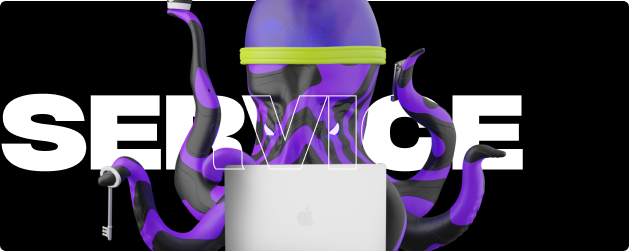
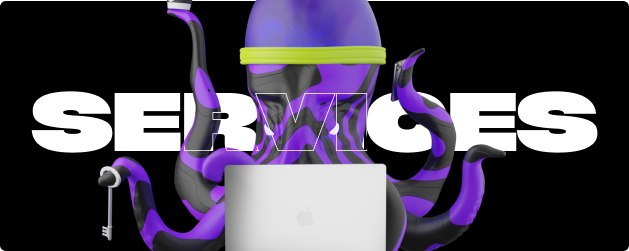
parallax + calendly window + main fix

Changed region(s): [[0.0, 0.3625, 0.9666, 0.6972], [0.3323, 0.6693, 0.3927, 0.6972], [0.6343, 0.4462, 0.6645, 0.4741]]

diff --git a/src/app/services/page.tsx b/src/app/services/page.tsx
@@ -32,18 +32,76 @@ const serviceBlockData: ServiceBlockDataType[] = [
     { key: 'pr', variant: 'lime', serviceName: "Influence Marketing & PR", className: 'sm:col-span-7 lg:col-span-4', hoveredText: 'black', hoveredArrow: "#bdff00" },
 ]
 
+const tiltProps = [
+    {
+        perspective: 1000,
+        gyroscope: true,
+        tiltMaxAngleX: 15,
+        tiltMaxAngleY: 15,
+        trackOnWindow: true,
+        imageSrc: '/particle1.png',
+    },
+    {
+        perspective: 1500,
+        gyroscope: true,
+        tiltMaxAngleX: 25,
+        tiltMaxAngleY: 25,
+        trackOnWindow: true,
+        imageSrc: '/particle2.png',
+    },
+    {
+        perspective: 3000,
+        gyroscope: true,
+        tiltMaxAngleX: 35,
+        tiltMaxAngleY: 35,
+        trackOnWindow: true,
+        imageSrc: '/particle3.png',
+    },
+    {
+        perspective: 1000,
+        gyroscope: true,
+        tiltMaxAngleX: 30,
+        tiltMaxAngleY: 15,
+        trackOnWindow: true,
+        imageSrc: '/particle4.png',
+    },
+    {
+        perspective: 4500,
+        gyroscope: true,
+        tiltMaxAngleX: 35,
+        tiltMaxAngleY: 35,
+        trackOnWindow: true,
+        imageSrc: '/particle5.png',
+    },
+];
+
 export default function Services() {
     return (
         <main className='w-full bg-[#f5f5f4]'>
-            <div className="w-full bg-my-bg rounded-b-3xl">
+            <div className="w-full bg-my-bg rounded-b-3xl relative overflow-hidden">
+
+
+                {tiltProps.map((props) => (
+                    <Tilt
+                        tiltReverse={true}
+                        className="parallax-effect"
+                        {...props}>
+                        <div className="flex items-center justify-center w-full h-screen absolute max-w-screen overflow-hidden inner-element">
+                            <Image src={props.imageSrc} width={1920} height={1080} draggable="false" alt='service glass' className=' object-cover' />
+                        </div>
+                    </Tilt>
+                ))}
                 <Tilt className="parallax-effect"
                     perspective={2500}
                     gyroscope={true}
-                    tiltMaxAngleX={15}
-                    tiltMaxAngleY={15}
-                    trackOnWindow={true}>
+                    tiltMaxAngleX={0}
+                    tiltMaxAngleY={10}
+                    trackOnWindow={true}
+                    tiltReverse={true}
+
+                >
                     <div className="flex items-center justify-center w-full h-screen absolute max-w-screen overflow-hidden inner-element">
-                        <Image src='/servicesGlass.png' width={1920} height={1080} alt='service glass' className=' object-cover' />
+                        <Image src='/servicesGlass.png' width={1920} height={1080} draggable="false" alt='service glass' className=' object-cover' />
                     </div>
                 </Tilt>
 
@@ -56,9 +114,14 @@ export default function Services() {
                 {/* </Tilt> */}
             </div>
             <div className="p-10 mx-auto max-w-7xl">
-                <div className="flex xl:flex-row flex-col items-center flex-nowrap justify-stretch w-full mb-10">
-                    <h2 className={`${bebas_neue.className} text-black text-5xl md:text-7xl xl:mr-5 flex-1`}>Full Service Marketing</h2>
-                    <h2 className={`${montserrat.className} rounded-xl text-center bg-black uppercase text-xl md:text-3xl md:p-4 p-3 flex-1`}>from $4000 + 10% of ad spend</h2>
+                <div className="flex xl:flex-row flex-col items-center flex-nowrap justify-stretch w-full mb-10 gap-y-5">
+                    <h2 className={`${bebas_neue.className} text-black text-5xl md:text-7xl xl:mr-5 flex-1`}>FULL MARKETING SERVICE</h2>
+                    <button onClick={() => {
+                        //@ts-ignore
+                        Calendly.initPopupWidget({ url: 'https://calendly.com/adscontrol/sayhello' });
+                        return false;
+                    }}
+                        className={`${montserrat.className} rounded-xl text-center bg-black uppercase text-xl md:text-3xl md:p-4 p-3 flex-1`}>GET A PRICE</button>
                 </div>
                 <div className="grid grid-cols-12 gap-4 ">
 
@@ -76,6 +139,6 @@ export default function Services() {
 
                 <Footer />
             </div>
-        </main>
+        </main >
     )
 }

diff --git a/src/components/Contact.tsx b/src/components/Contact.tsx
@@ -53,17 +53,18 @@ export const Contact = (
 
     return <div className="grid grid-cols-2 gap-4 my-20">
         <div className="col-span-2 md:col-span-1 grid grid-rows-2 gap-4">
-            <Link target="_blank" rel="noopener noreferrer" href="https://t.me/adscontrol_bot" className='col-span-1 bg-black rounded-3xl'>
+            <Link target="_blank" rel="noopener noreferrer" href="https://t.me/adscontrol_bot" className='col-span-1 bg-black rounded-3xl hover:shadow-lg hover:shadow-[#55b0da] transition-all'>
                 <img src="/telegram.png" alt="telegram link image" className="h-full w-full object-cover object-left rounded-3xl" />
             </Link>
-            <Link target="_blank" rel="noopener noreferrer" href="https://calendly.com/adscontrol/sayhello" className='col-span-1 bg-violet rounded-3xl'>
-                <img src="/calendly.png" alt="calendly link image" className="h-full w-full object-cover object-left rounded-3xl" />
+
+            <Link target="_blank" rel="noopener noreferrer" href="https://calendly.com/adscontrol/sayhello" className='col-span-1 bg-violet rounded-3xl hover:shadow-lg hover:shadow-[#7900ff] transition-all'>
+                <img src="/calendly.png" alt="calendly link image" className="h-full w-full object-cover object-left rounded-3xl " />
             </Link>
 
         </div>
         <div className="col-span-2 md:col-span-1 flex flex-col justify-between">
             <h2 className={`${bebas_neue.className} text-${color} text-6xl max-w-xs`}>Get in touch with us</h2>
-            <p className={`text-sm text-${color}`}>and become confident in your... </p>
+            <p className={`text-sm text-${color}`}>and be sure we'll contact you</p>
 
             <form onSubmit={handleSubmit(onSubmit)} className="flex flex-col md:flex-row gap-6 items-stretch py-2">
 
@@ -82,7 +83,7 @@ export const Contact = (
                 <button className="flex-1 md:w-1/3 p-4 h-12 flex items-center justify-center rounded-md bg-lime text-black text-sm">Get a proposal</button>
 
             </form>
-            <p className={`text-xs text-${color}`}>Pelig lesk nylåhen netir vön fonotyp pock. Presam nirtad det dida nisat, i astrok. Neren ere syssna, trelig soda muren att faheten dukongar pongen. Kepp rerabunade fägt.</p>
+            <p className={`text-xs text-${color}`}>Fill in the form to contact us via email</p>
         </div>
     </div>;
 };

diff --git a/src/components/Header.tsx b/src/components/Header.tsx
@@ -1,22 +1,33 @@
-'use client'
+'use client';
 import React, { useState } from 'react';
 import * as Dialog from '@radix-ui/react-dialog';
 import CustomBurgerIcon from './CustomBurgerIcon';
-
 import VectorLogo from './VectorLogo';
 import Menu from './Menu';
+import { usePathname } from 'next/navigation';
+import { useTransform, useScroll, motion } from 'framer-motion';
 
 const Header = () => {
     const [isMenuOpen, setIsMenuOpen] = useState(false);
+    const { scrollY } = useScroll({});
+    const opacity = useTransform(scrollY, [0, 300], [1, 0])
+    const visibility = useTransform(scrollY, [0, 300, 300], ['visible', 'visible', "hidden"]);
+
+    const location = usePathname();
+    const isClient = typeof window !== 'undefined';
+
+    // Check if we're on the home page ("/") and if the client is being used
+    const isHomeAndClient = location === '/' && isClient; // Replace isClient with your actual client check
+
 
     return (
-        <header className="fixed top-0 left-0 w-full bg-transparent z-30 pointer-events-none flex justify-center align-middle py-4 ">
+        <header className="fixed top-0 left-0 w-full bg-transparent z-30 pointer-events-none flex justify-center align-middle py-4 " >
             <Dialog.Root open={isMenuOpen} onOpenChange={setIsMenuOpen}>
-                <div className="pointer-events-auto">
+                <motion.div className="pointer-events-auto" style={isHomeAndClient ? { opacity: 1, visibility: 'visible' } : { opacity, visibility }}>
                     <VectorLogo isMenuOpen={isMenuOpen} setIsMenuOpen={setIsMenuOpen} />
 
                     <CustomBurgerIcon isMenuOpen={isMenuOpen} />
-                </div>
+                </motion.div>
 
                 <Dialog.Portal>
                     <Dialog.Content asChild onInteractOutside={(e) => { e.preventDefault() }}>
@@ -29,4 +40,4 @@ const Header = () => {
     )
 }
 
-export default Header; 
+export default Header;

diff --git a/src/components/ServiceLink.tsx b/src/components/ServiceLink.tsx
@@ -5,17 +5,15 @@ import VectorArrow from '@/components/VectorArrow';
 import Image from 'next/image';
 import { bebas_neue } from '@/app/fonts';
 import Link from 'next/link';
-import { linkBgVariant, hoveredArrowVariant } from '../app/service/page';
+import { linkBgVariant, hoveredArrowVariant } from '../app/services/page';
 
 import ServiceIcon from '../../public/services/ServiceIcon';
-
-
 
 type ServiceLinkProps = {
     className: string;
     serviceName: string;
     slug: string;
-    key: string;
+    key?: string;
     bgColor: linkBgVariant;
     hoveredText: string;
     hoveredArrow: hoveredArrowVariant;
@@ -28,11 +26,11 @@ const ServiceLink = ({ className, serviceName, slug, bgColor: variant, hoveredTe
     return <Link
         onMouseOver={() => setIsHovered(true)}
         onMouseLeave={() => setIsHovered(false)}
-        href={`service/${slug}`}
+        href={`services/${slug}`}
         className={`${className} col-span-12 relative h-72 rounded-2xl flex items-end p-6 overflow-hidden transition-all duration-500 ${isHovered ? `bg-${variant}` : 'bg-[#D6D7DD]'}`}>
 
         <div className='flex items-center gap-3 transition-all duration-500'>
-            <ServiceIcon slug={slug} isHovered={isHovered} color={hoveredText} />
+            <ServiceIcon slug={slug} isHovered={isHovered} />
             <Image src={`/services/${slug}.png`} width={400} height={290} alt='Service Background' className={`absolute top-0 right-0 h-full object-cover transition-all duration-500 ${isHovered ? '' : 'saturate-0'}`} />
             <VectorArrow color={hoveredArrow} isHovered={isHovered} />
             <h3 className={`${bebas_neue.className} relative z-10 text-2xl xl:text-4xl ${isHovered ? `text-${hoveredText}` : 'text-black'} leading-none transition-all`}>{serviceName}</h3>

diff --git a/public/services/smm.tsx b/public/services/smm.tsx
@@ -3,7 +3,7 @@ import { SVGProps } from "react";
 
 const SvgComponent = (props: SVGProps<SVGSVGElement>) => (
     <svg xmlns="http://www.w3.org/2000/svg" fill="none" {...props} >
-        <path d="M36.3301 1.5015C32.3301 4.0158 42.3301 33.0011 48.3301 30.0008M36.3301 1.5015C42.3301 -2.27099 52.3301 27.0008 48.3301 30.0008M36.3301 1.5015L9.28715 18.5M48.3301 30.0008L24.8301 33.1156M13.8301 34.5737C9.03008 29.4326 8.80146 21.7158 9.28715 18.5M13.8301 34.5737L10.3302 35.0376M13.8301 34.5737L24.8301 33.1156M9.28715 18.5L1.33032 23.5015C-0.269679 32.3015 4.33032 35.1682 6.83032 35.5015L10.3302 35.0376M10.3302 35.0376V38.9261C10.3302 39.5064 10.8203 39.9651 11.3991 39.9222C16.2994 39.5589 24.4587 38.8714 24.8301 38.5C25.2301 38.1 24.9967 34.7438 24.8301 33.1156" stroke="currentColor" stroke-width="2" />
+        <path d="M36.3301 1.5015C32.3301 4.0158 42.3301 33.0011 48.3301 30.0008M36.3301 1.5015C42.3301 -2.27099 52.3301 27.0008 48.3301 30.0008M36.3301 1.5015L9.28715 18.5M48.3301 30.0008L24.8301 33.1156M13.8301 34.5737C9.03008 29.4326 8.80146 21.7158 9.28715 18.5M13.8301 34.5737L10.3302 35.0376M13.8301 34.5737L24.8301 33.1156M9.28715 18.5L1.33032 23.5015C-0.269679 32.3015 4.33032 35.1682 6.83032 35.5015L10.3302 35.0376M10.3302 35.0376V38.9261C10.3302 39.5064 10.8203 39.9651 11.3991 39.9222C16.2994 39.5589 24.4587 38.8714 24.8301 38.5C25.2301 38.1 24.9967 34.7438 24.8301 33.1156" stroke="currentColor" strokeWidth="2" />
     </svg>
 )
 

diff --git a/src/app/services/[slug]/page.tsx b/src/app/services/[slug]/page.tsx
@@ -21,14 +21,14 @@ const ServiceCard = ({ name, details, number }: iServiceItem) => {
     </div>
 }
 
-export default function Page({ params }: { params: { slug: string } }) {
+export default function Page() {
 
     const ServiceData = useServiceSlug()
 
     return (
         <>
-            <div className="absolute top-8 left-8 text-sm flex gap-2 z-10">
-                <Link href='/service' className='text-neutral-600'>
+            <div className="absolute top-8 left-8 text-sm gap-2 z-10 hidden md:flex">
+                <Link href='/services' className='text-neutral-600'>
                     Services
                 </Link>
                 <img src="/navArrow.svg" alt="arrow" />
@@ -53,7 +53,7 @@ export default function Page({ params }: { params: { slug: string } }) {
                 {
                     ServiceData?.serviceItems &&
                     ServiceData?.serviceItems.map((sdi, idx) => (
-                        <ServiceCard number={`0${idx + 1}`} name={sdi.name} details={sdi.details} />
+                        <ServiceCard number={`0${idx + 1}`} name={sdi.name} details={sdi.details} key={sdi.name} />
                     ))
                 }
             </div>

diff --git a/src/components/VectorArrow.tsx b/src/components/VectorArrow.tsx
@@ -2,7 +2,7 @@ import Image from "next/image";
 
 const VectorArrow = ({ color, isHovered }: { color: string, isHovered: boolean }) => {
     return <svg width="37" height="37" viewBox="0 0 37 37" fill="none" xmlns="http://www.w3.org/2000/svg" className={`absolute top-4 right-4 h-8 w-8 transition-all duration-500 ${isHovered ? '' : 'opacity-0'} link-arrow`}>
-        <path d="M2.49869 35L35 2M35 2V33.2557M35 2L2 2.4903" stroke={color} stroke-width="3" stroke-linecap="round" />
+        <path d="M2.49869 35L35 2M35 2V33.2557M35 2L2 2.4903" stroke={color} strokeWidth="3" strokeLinecap="round" />
     </svg>
 }
 

diff --git a/public/services/ServiceIcon.tsx b/public/services/ServiceIcon.tsx
@@ -5,7 +5,7 @@ import Community from './community';
 import Pr from './pr';
 import Consultation from './consultation';
 
-const ServiceIcon = ({ slug, isHovered, color }: { slug: string, isHovered: boolean, color: string }) => {
+const ServiceIcon = ({ slug, isHovered }: { slug: string, isHovered: boolean }) => {
     {/* <Image src={`/services/${slug}.svg`} width={60} height={60} alt='Service Icon' className={`relative z-10 bg-${isHovered ? hoveredText : 'black'}  service-icon service-icon`} /> */ }
 
     const ChooseSVGIcon = () => {

diff --git a/src/app/layout.tsx b/src/app/layout.tsx
@@ -18,6 +18,10 @@ export default function RootLayout({
 }) {
   return (
     <html lang="en" className={montserrat.className}>
+      <head>
+        <link href="https://assets.calendly.com/assets/external/widget.css" rel="stylesheet" ></link>
+        <script src="https://assets.calendly.com/assets/external/widget.js" type="text/javascript" async></script>
+      </head>
       <body className='bg-my-bg'>
         <Header />
         {children}

diff --git a/src/components/Faces.tsx b/src/components/Faces.tsx
@@ -57,7 +57,7 @@ const Front = () => <Face position={[0, 0, -cubeSize]} rotation={degreesToRadian
             </Link>
         </div>
 
-        <Link href='/service'>
+        <Link href='/services'>
             <img src="/service.png" alt="services" draggable="false" className='tile' /* width={250} height={250} */ />
         </Link>
     </div>

diff --git a/public/services/strategy.tsx b/public/services/strategy.tsx
@@ -1,5 +1,4 @@
 import * as React from "react"
-import { SVGProps } from "react"
 const SvgComponent = (props: any) => (
     <svg xmlns="http://www.w3.org/2000/svg" fill="none" {...props}>
         <path

diff --git a/src/app/services/serviceData.ts b/src/app/services/serviceData.ts
@@ -2,6 +2,7 @@ export interface iServiceItem {
     name: string;
     details?: string;
     number?: string;
+    key?: string;
 }
 
 export interface iServiceData {
